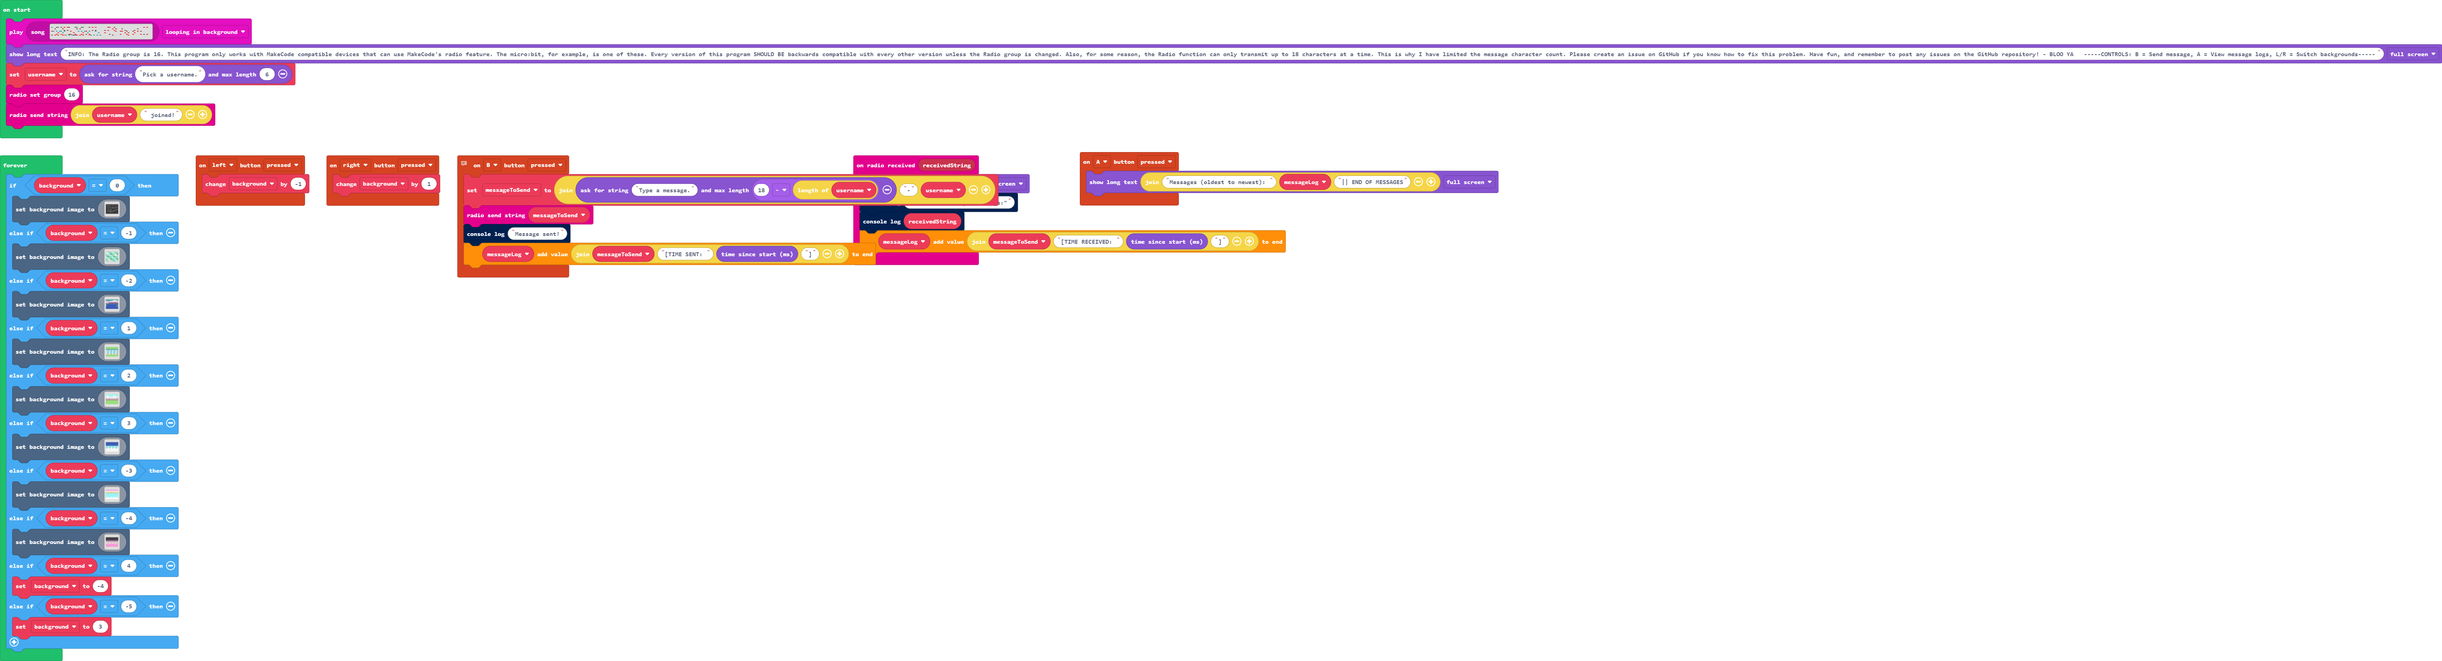
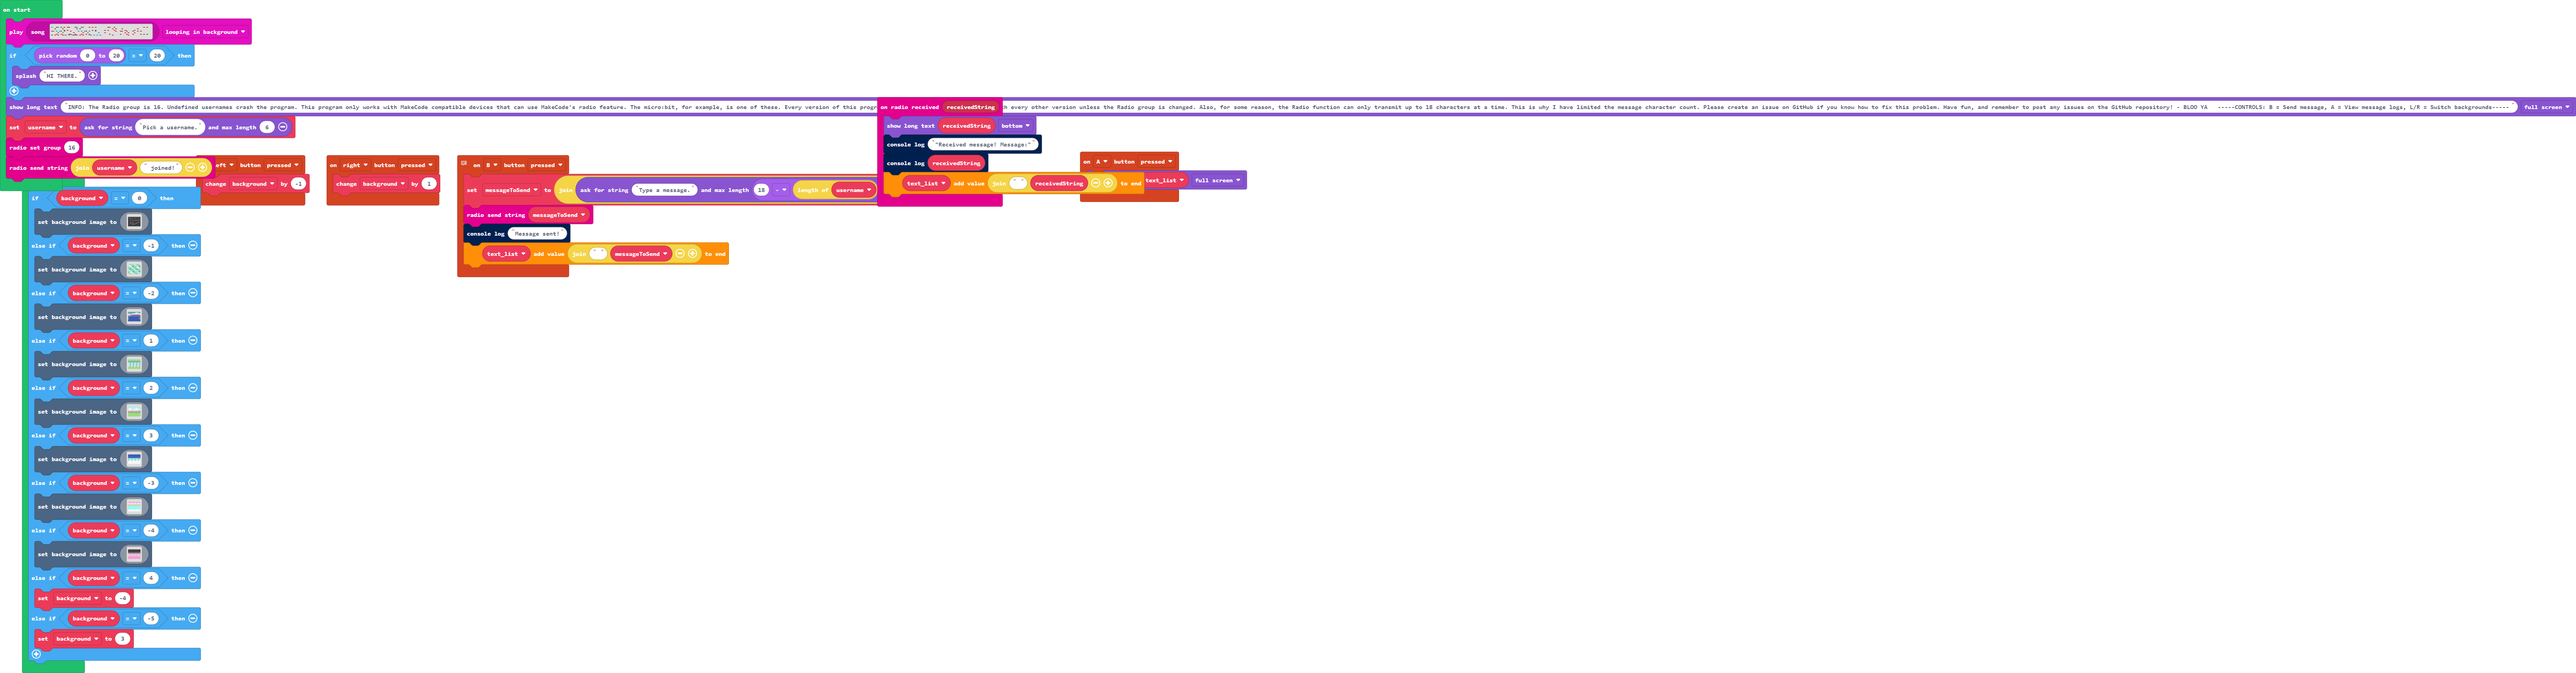
Minor QOL tweaks

Changed region(s): [[0.0, 0.0, 1.0, 1.0]]

diff --git a/main.ts b/main.ts
@@ -3,10 +3,10 @@ controller.B.onEvent(ControllerButtonEvent.Pressed, function () {
     messageToSend = "" + game.askForString("Type a message.", 18 - username.length) + "-" + username
     radio.sendString(messageToSend)
     console.log("Message sent!")
-    messageLog.push("" + messageToSend + "[TIME SENT: " + game.runtime() + "]")
+    text_list.push(" " + messageToSend)
 })
 controller.A.onEvent(ControllerButtonEvent.Pressed, function () {
-    game.showLongText("Messages (oldest to newest): " + messageLog + "|| END OF MESSAGES", DialogLayout.Full)
+    game.showLongText(text_list, DialogLayout.Full)
 })
 controller.left.onEvent(ControllerButtonEvent.Pressed, function () {
     background += -1
@@ -15,17 +15,20 @@ controller.right.onEvent(ControllerButtonEvent.Pressed, function () {
     background += 1
 })
 radio.onReceivedString(function (receivedString) {
-    game.showLongText(receivedString, DialogLayout.Full)
+    game.showLongText(receivedString, DialogLayout.Bottom)
     console.log("\"Received message! Message:\"")
     console.log(receivedString)
-    messageLog.push("" + messageToSend + "[TIME RECEIVED: " + game.runtime() + "]")
+    text_list.push(" " + receivedString)
 })
 let background = 0
-let messageLog: string[] = []
+let text_list: string[] = []
 let messageToSend = ""
 let username = ""
 music.play(music.createSong(assets.song`tetris`), music.PlaybackMode.LoopingInBackground)
-game.showLongText("INFO: The Radio group is 16. This program only works with MakeCode compatible devices that can use MakeCode's radio feature. The micro:bit, for example, is one of these. Every version of this program SHOULD BE backwards compatible with every other version unless the Radio group is changed. Also, for some reason, the Radio function can only transmit up to 18 characters at a time. This is why I have limited the message character count. Please create an issue on GitHub if you know how to fix this problem. Have fun, and remember to post any issues on the GitHub repository! - BLOO YA   -----CONTROLS: B = Send message, A = View message logs, L/R = Switch backgrounds-----", DialogLayout.Full)
+if (randint(0, 20) == 20) {
+    game.splash("HI THERE.")
+}
+game.showLongText("INFO: The Radio group is 16. Undefined usernames crash the program. This program only works with MakeCode compatible devices that can use MakeCode's radio feature. The micro:bit, for example, is one of these. Every version of this program SHOULD BE backwards compatible with every other version unless the Radio group is changed. Also, for some reason, the Radio function can only transmit up to 18 characters at a time. This is why I have limited the message character count. Please create an issue on GitHub if you know how to fix this problem. Have fun, and remember to post any issues on the GitHub repository! - BLOO YA   -----CONTROLS: B = Send message, A = View message logs, L/R = Switch backgrounds-----", DialogLayout.Full)
 username = game.askForString("Pick a username.", 6)
 radio.setGroup(16)
 radio.sendString("" + username + " joined!")

diff --git a/tilemap.g.ts b/tilemap.g.ts
@@ -1,0 +1,14 @@
+// Auto-generated code. Do not edit.
+namespace myTiles {
+    //% fixedInstance jres blockIdentity=images._tile
+    export const transparency16 = image.ofBuffer(hex``);
+
+    helpers._registerFactory("tile", function(name: string) {
+        switch(helpers.stringTrim(name)) {
+            case "transparency16":return transparency16;
+        }
+        return null;
+    })
+
+}
+// Auto-generated code. Do not edit.
